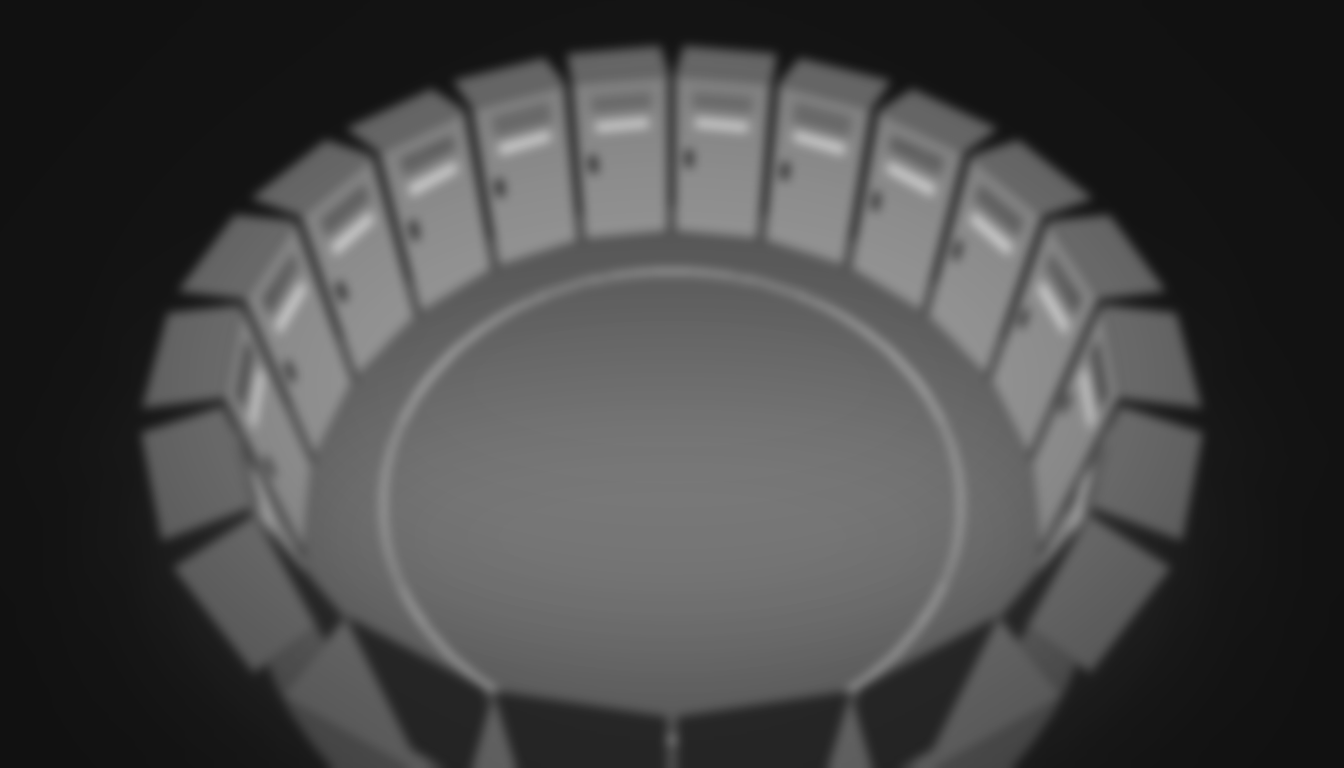
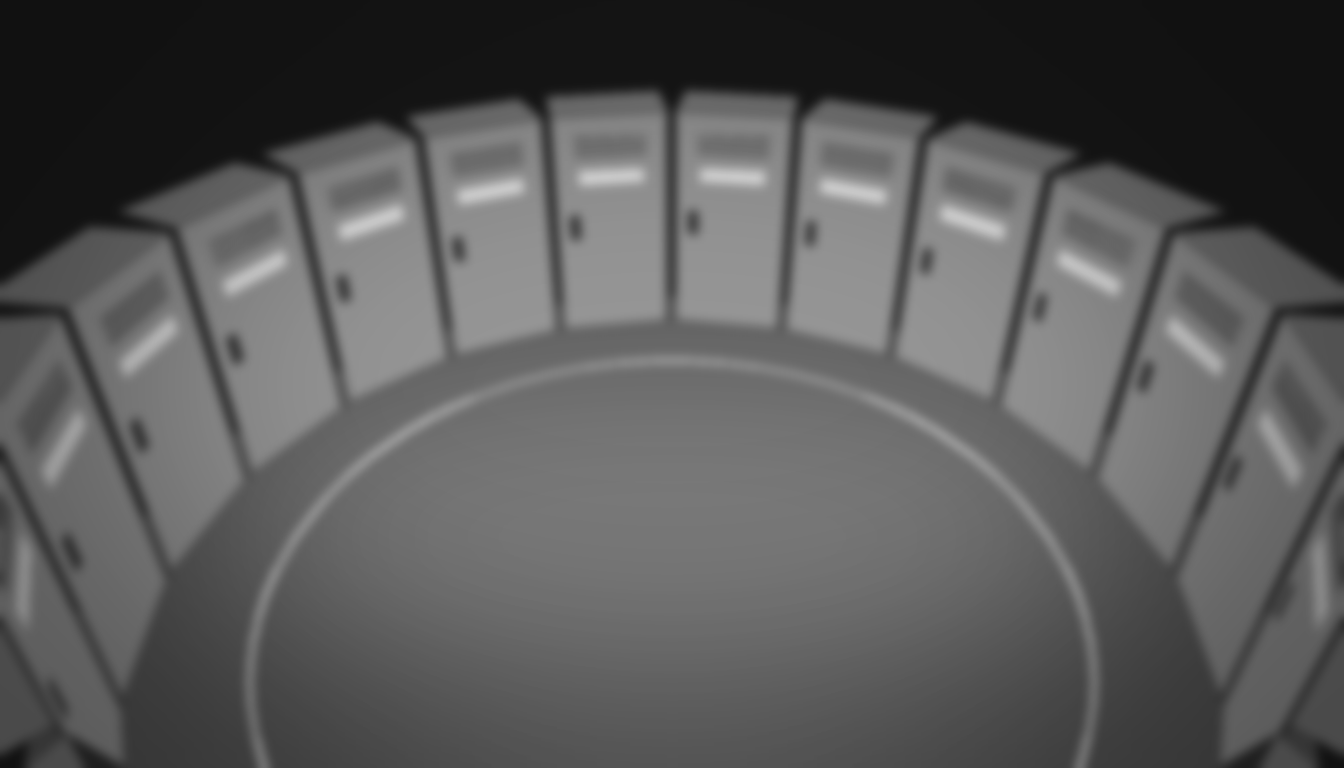
Ch4 p12_1: three-quarter view of the ring, lower strength (render lost every locker)
Claude-Session: https://claude.ai/code/session_01PF511aGmcMqQ6PCbPbr6tc

diff --git a/tools/manga/sketches.py b/tools/manga/sketches.py
@@ -670,7 +670,7 @@ SKETCHES = {
                   "p02_3.png": lambda: white_room_door(1216, 832, seed=4023),
                   "p03_3.png": floor_line,
                   "p03_1.png": lambda: locker_ring(1152, 896, cam=(0, 1.6, -2.2), pitch=10),
-                  "p12_1.png": lambda: locker_ring(1344, 768, cam=(0, 6.5, -5.0), pitch=48),
+                  "p12_1.png": lambda: locker_ring(1344, 768, cam=(0, 4.2, -4.2), pitch=34),
                   "p13_1.png": lambda: silent_class(1216, 832, seed=4131),
                   "p16_1.png": silent_class,
                   "p19_1.png": standoff},
